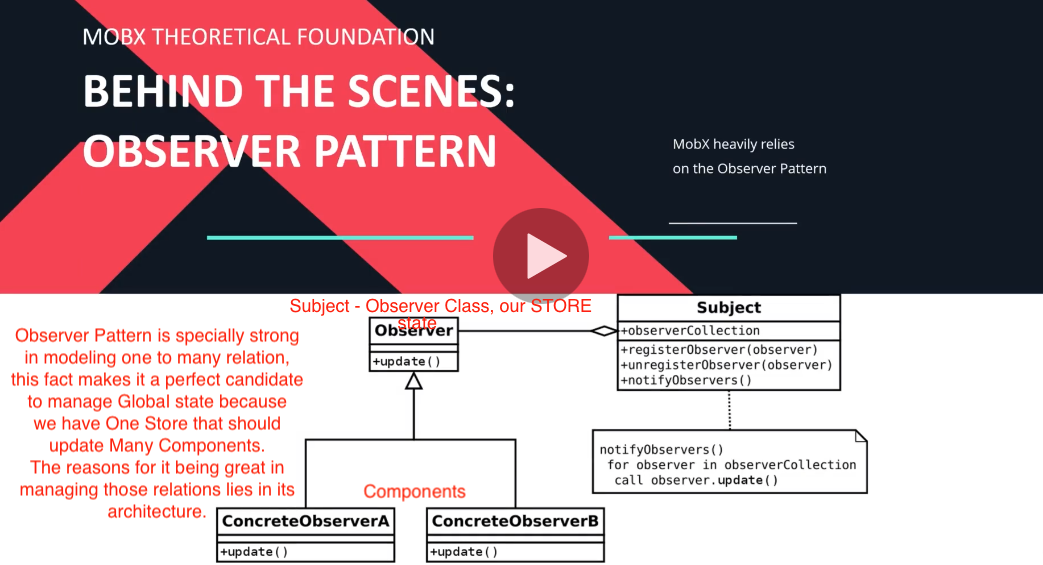
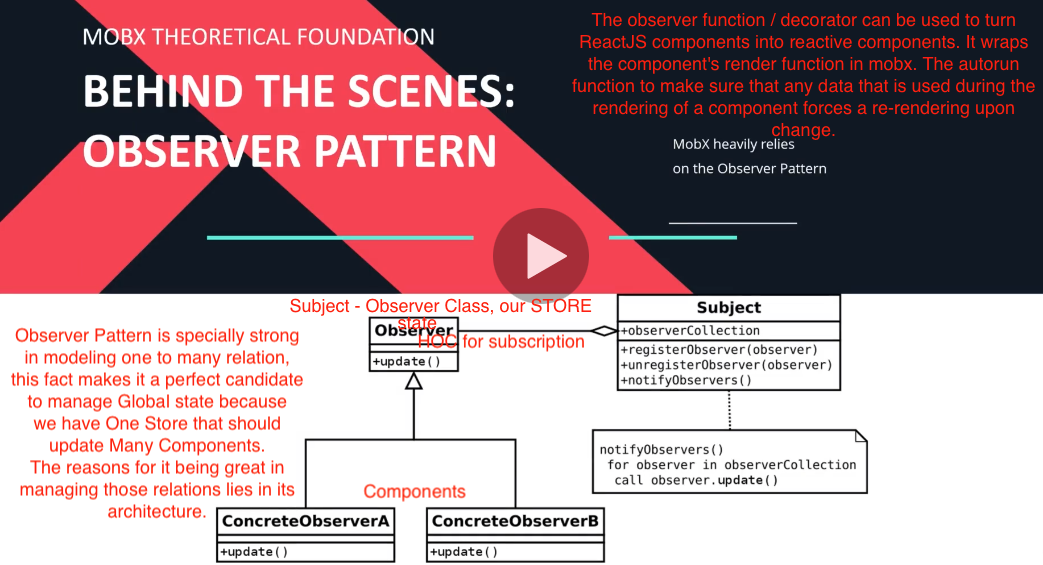
created observer

Changed region(s): [[0.5523, 0.0301, 1.0, 0.2407], [0.3988, 0.5717, 0.5523, 0.6319]]

diff --git a/mobx_basic/src/components/todo/TodoList.tsx b/mobx_basic/src/components/todo/TodoList.tsx
@@ -1,0 +1,52 @@
+import { observer } from 'mobx-react-lite';
+
+import TodoStore, { Todo } from '../../stores/TodoStore';
+
+import styles from './TodoList.module.css';
+
+// Creating 'todos' parameter which accepts an arg of type - TodoStore Object
+// passing 'TodoStore' as an arg
+const TodoList = ({ todos }: { todos: TodoStore }) => {
+  const handleToggleTodo = (todo: Todo) => {
+    // toggle action from our store
+    todos.toggle(todo);
+  };
+
+  const handleRemoveTodo = (todo: Todo) => {
+    // toggle action from our store
+    todos.remove(todo);
+  };
+
+  return (
+    <ul className={styles['todo-list']}>
+      {todos.list.map(todo => (
+        <li key={todo.id}>
+          <label htmlFor={String(todo.id)} className={todo.isDone ? styles.done : ''}>
+            {todo.title}
+          </label>
+
+          <button
+            onClick={() => handleRemoveTodo(todo)}
+            className={[styles.remove, todo.isDone && styles.done].join(' ')}
+          >
+            remove
+          </button>
+
+          <button onClick={() => handleToggleTodo(todo)}>
+            <input type='checkbox' id={String(todo.id)} readOnly tabIndex={-1} />
+          </button>
+        </li>
+      ))}
+    </ul>
+  );
+};
+
+// note - Need to Register Component as a Observable to connect to the Mobx Store
+// and to get notified when our Piece of State changes in the Store.
+// We simply have to add Observable Decorator to our Component.
+// Here, we just need to wrap up our Component inside of 'Observer' HOC Function.
+export default observer(TodoList);
+// The observer function / decorator can be used to turn ReactJS components into 'reactive' components.
+// It wraps the component's render function in mobx.
+// It is 'auto run' function to make sure that any data that is used during
+// the rendering of a component forces a re-rendering upon change.

diff --git a/mobx_basic/src/stores/TodoStore.ts b/mobx_basic/src/stores/TodoStore.ts
@@ -12,16 +12,16 @@ class TodoStore {
   list: Todo[] = [];
 
   // we want to connect to mobx now & make it re-active
-  // Creating Observable - trackable field property that stores the State
   constructor() {
     // func by mobx
     // first param is Object - instance of a TodoStore
     // Second param is Map of Annotation to link Properties & Methods of our Class
     // with respective mobx classification to UPDATE our State Object - An Action
     makeObservable(this, {
-      // list state
+      // Creating Observable - trackable field property that stores the State
+      // 'observable' means piece of state which can be trackable & subscribe
       list: observable,
-      // actions
+      // actions to modify the state
       add: action,
       toggle: action,
       remove: action,
@@ -45,6 +45,8 @@ class TodoStore {
     });
   }
 
+  // note - Passing whole todo object & since objects are passed by 'reference'
+  // we can simply manipulate it directly
   toggle(todo: Todo) {
     todo.isDone = !todo.isDone;
   }

diff --git a/mobx_basic/src/components/todo/TodoInput.tsx b/mobx_basic/src/components/todo/TodoInput.tsx
@@ -1,0 +1,33 @@
+import { ChangeEvent, FormEvent, useState } from 'react';
+
+import TodoStore from '../../stores/TodoStore';
+
+import styles from './TodoInput.module.css';
+
+// Creating 'todos' parameter which accepts an arg of type - TodoStore Object
+// passing 'TodoStore' as an arg
+const TodoInput = ({ todos }: { todos: TodoStore }) => {
+  const [newTodo, setNewTodo] = useState('');
+
+  const handleInputChange = (e: ChangeEvent<HTMLInputElement>) => {
+    setNewTodo(e.target.value);
+  };
+
+  const handleSubmit = (e: FormEvent) => {
+    e.preventDefault();
+
+    // add action from our Store
+    todos.add(newTodo);
+
+    setNewTodo('');
+  };
+
+  return (
+    <form onSubmit={handleSubmit} className={styles['todo-input-group']}>
+      <input value={newTodo} onChange={handleInputChange} />
+      <button type='submit'>Add Todo</button>
+    </form>
+  );
+};
+
+export default TodoInput;

diff --git a/mobx_basic/src/components/todo/TodoInput.module.css b/mobx_basic/src/components/todo/TodoInput.module.css
@@ -1,0 +1,30 @@
+/* This project supports CSS Modules alongside regular stylesheets using the [name].module.css file naming convention. CSS Modules allows the scoping of CSS by automatically creating a unique classname of the format [filename]\_[classname]\_\_[hash] */
+
+/* CSS Modules let you use the same CSS class name in different files without worrying about naming clashes */
+
+.todo-input-group {
+  display: grid;
+  gap: 0.5rem;
+  grid-template-columns: 3fr 1fr;
+}
+
+.todo-input-group > button,
+.todo-input-group > input {
+  padding: 0.5rem 1rem;
+}
+
+.todo-input-group > input {
+  border: 1px solid #ccc;
+  box-shadow: 0 0 10px #0000001a;
+}
+
+.todo-input-group > input:focus {
+  outline-color: lightblue;
+}
+
+.todo-input-group > button {
+  background-color: rgb(30, 162, 250, 0.8);
+  border: 0;
+  color: #fff;
+  cursor: pointer;
+}

diff --git a/mobx_basic/src/App.tsx b/mobx_basic/src/App.tsx
@@ -1,11 +1,23 @@
 import React from 'react';
+import './index.css';
 
-function App() {
+import TodoStore from './stores/TodoStore';
+import TodoInput from './components/todo/TodoInput';
+import TodoList from './components/todo/TodoList';
+
+// creating new instance of our TodoStore
+// note - since we don't want to re-render Store Instance when App Component renders,
+// therefore creating outside of App Component.
+const todos = new TodoStore();
+
+const App = () => {
   return (
-    <div>
+    <div className='app'>
       <h1>Todo App</h1>
+      <TodoList todos={todos} />
+      <TodoInput todos={todos} />
     </div>
   );
-}
+};
 
 export default App;

diff --git a/mobx_basic/src/components/todo/TodoList.module.css b/mobx_basic/src/components/todo/TodoList.module.css
@@ -1,0 +1,41 @@
+.todo-list {
+  display: grid;
+  gap: 1rem;
+  list-style-type: none;
+  padding: 0;
+  margin-top: 5rem;
+}
+
+.todo-list li {
+  box-shadow: 0 0 10px #3333332c;
+  user-select: none;
+  display: flex;
+  justify-content: space-between;
+  align-items: center;
+}
+
+.todo-list li > * {
+  padding: 1rem;
+}
+
+.todo-list label {
+  flex-grow: 1;
+}
+
+.todo-list li button {
+  border: none;
+  background-color: transparent;
+}
+
+.todo-list li label.done {
+  text-decoration: line-through;
+}
+
+.todo-list .remove {
+  color: #ff0000;
+  cursor: pointer;
+}
+
+.todo-list .remove:not(.done) {
+  display: none;
+}

diff --git a/mobx_basic/src/index.css b/mobx_basic/src/index.css
@@ -5,3 +5,8 @@ body {
   -webkit-font-smoothing: antialiased;
   -moz-osx-font-smoothing: grayscale;
 }
+
+.app {
+  max-width: 600px;
+  margin: 2rem auto;
+}
